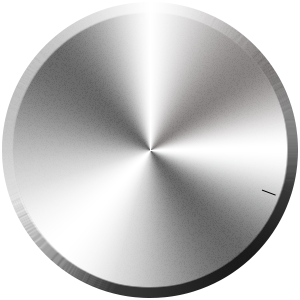
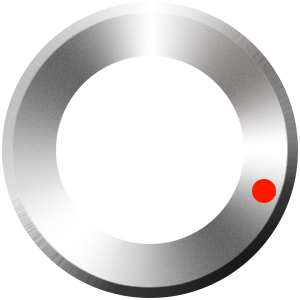
design1

Changed region(s): [[0.18, 0.18, 0.81, 0.84], [0.84, 0.6, 0.93, 0.69]]

diff --git a/lib/main.dart b/lib/main.dart
@@ -29,7 +29,7 @@ final Color _cPrimaryColor = Colors.grey;
 /// Theme accent color
 final Color _cAccentColor = Colors.blueGrey;
 /// Text color
-final Color _cTextColor = Colors.black;
+final Color _cTextColor = Colors.white;
 /// UI Controls color and opacity
 final Color _cCtrlColor = Colors.grey;
 final double _cCtrlOpacity = 0;
@@ -474,7 +474,7 @@ class _HomePageState extends State<HomePage> with SingleTickerProviderStateMixin
         ),
         ///widget Settings
         IconButton(
-          iconSize: 24,
+          iconSize: 18,
           icon: Icon(Icons.settings,),
           color: _textColor.withOpacity(_opacity),
           onPressed: () {
@@ -497,7 +497,7 @@ class _HomePageState extends State<HomePage> with SingleTickerProviderStateMixin
       // Can use instead: Icon(Icons.exposure_neg_1, semanticLabel: 'Reduce tempo by one', size: 36.0, color: Colors.white)
       child: Text(text,
         style: _textStyle,
-        textScaleFactor: 2.0,),
+        textScaleFactor: 1.2,),
       //padding: EdgeInsets.all(4),
       shape: CircleBorder(
         //borderRadius: new BorderRadius.circular(18.0),
@@ -565,7 +565,7 @@ class _HomePageState extends State<HomePage> with SingleTickerProviderStateMixin
           //   end: Alignment.bottomCenter,
           //      colors: [_primaryColor, _accentColor])
             image: DecorationImage(
-                image: AssetImage('images/Backg-Up-1.jpg'),
+                image: AssetImage('images/Backg-Dn-2.jpg'),
                 fit: BoxFit.cover
             )
         ),
@@ -597,7 +597,7 @@ class _HomePageState extends State<HomePage> with SingleTickerProviderStateMixin
           //Flexible(mainAxisAlignment: MainAxisAlignment.start, child:
           SlideTransition(
             position: _animationNeg,
-            child:
+           child:
             SizedBox(
             width: 0.5 * (width - 2 * _padding.dx),
             child: _buildMetre(_textStyle)
@@ -620,7 +620,7 @@ class _HomePageState extends State<HomePage> with SingleTickerProviderStateMixin
 */
           ///widget Subbeat widget
           //Flexible(child:
-      SlideTransition(
+     SlideTransition(
         position: _animationPos,
         child:
           SizedBox(
@@ -650,8 +650,8 @@ class _HomePageState extends State<HomePage> with SingleTickerProviderStateMixin
       min: minTempo.toDouble(),
       max: maxTempo.toDouble(),
       limit: _tempoBpmMax.toDouble(),
-      size: 0.36 * _widthSquare,
-      color: _textColor.withOpacity(0.5),
+        size: 0.32 * _widthSquare,
+      color: _textColor.withOpacity(0.6),
       textStyle: _textStyle,
       onPressed: _play,
       onChanged: (double value) {
@@ -673,17 +673,20 @@ class _HomePageState extends State<HomePage> with SingleTickerProviderStateMixin
       ///widget Tempo down (-1) button
       //tempoControls.add(_buildOneButton('-', -1));
       tempoControls.add(
-//        SizeTransition(
-//          axis: Axis.horizontal,
-//          axisAlignment: 1,
-//          sizeFactor: _animation,
-        SlideTransition(
-          position: _animationNeg,
-          child: Center(child:_buildOneButton('-', -1))
-        )
-      );
+
+          SlideTransition(
+              position: _animationNeg,
+              child: Center(child:_buildOneButton('-', -1))
+                    )
+
+          );
+
+
       ///widget Tempo knob control
       tempoControls.add(wixKnob);
+
+
+
       ///widget Tempo up (+1) button
       tempoControls.add(
         //PositionedTransition(
@@ -693,10 +696,11 @@ class _HomePageState extends State<HomePage> with SingleTickerProviderStateMixin
           //axisAlignment: -1,
 //          ScaleTransition(
 //          scale: _animation,
-          SlideTransition(
-            position: _animationPos,
-          child: Center(child:_buildOneButton('+', 1))
-        )
+
+                SlideTransition(
+                    position: _animationPos,
+                    child: Center(child:_buildOneButton('+', 1))
+                )
       );
       //tempoControls.add(_buildOneButton('+', 1));
     }
@@ -818,7 +822,7 @@ class _HomePageState extends State<HomePage> with SingleTickerProviderStateMixin
         /// Background
           decoration: BoxDecoration(
               image: DecorationImage(
-                  image: AssetImage('images/Backg-Up-1.jpg'),
+                  image: AssetImage('images/Backg-Dn-2.jpg'),
                   fit: BoxFit.cover
               )
         ),

diff --git a/lib/knob.dart b/lib/knob.dart
@@ -2,6 +2,7 @@
 
 import 'dart:math';
 import 'package:flutter/material.dart';
+import 'tempo_ui.dart';
 
 typedef OnPressedCallback = void Function();
 
@@ -116,7 +117,7 @@ class KnobState extends State<Knob>
                 angle: angle,
                 child: ClipOval(
                   child: Container(
-                    color: widget.color,
+    //                color: widget.color,
                     child: Image.asset('images/TempoKnob.png',
                       height: size,
                       fit: BoxFit.cover
@@ -128,12 +129,13 @@ class KnobState extends State<Knob>
               Column(
                 mainAxisAlignment: MainAxisAlignment.center,
                 children: [
-                  Icon(pressed ? Icons.pause : Icons.play_arrow,
-                    size: 0.5 * size,
-                    color: widget.color,
-                  ),
+  //                Icon(pressed ? Icons.pause : Icons.play_arrow,
+   //                 size: 0.53 * size,
+  //                  color: widget.color,
+   //               ),
                   Text(widget.value.toInt().toString(),
-                    style: widget.textStyle
+                    style: TextStyle(color: Colors.white ,
+                    fontSize:  26),
                   ),
                 ]
               )

diff --git a/lib/subbeat_ui.dart b/lib/subbeat_ui.dart
@@ -51,14 +51,14 @@ class SubbeatState extends State<SubbeatWidget>
       },
       child: Row(
         children: <Widget>[
-          Image.asset('images/owl2-3.png',
+          Image.asset('images/OWL=.png',
             height: 50,
             fit: BoxFit.contain
           ),
-          Padding(
-            padding: const EdgeInsets.symmetric(vertical: 0, horizontal: 4),
-            child: Text('=', style: widget.textStyle.copyWith(color: widget.color))
-          ),
+          //        Padding(
+//            padding: const EdgeInsets.symmetric(vertical: 0, horizontal: 4),
+//            child: Text('=', style: widget.textStyle.copyWith(color: widget.color))
+//          ),
           Padding(
             padding: const EdgeInsets.symmetric(vertical: 0, horizontal: 0),
             child: SizedBox(

diff --git a/lib/note_ui.dart b/lib/note_ui.dart
@@ -190,15 +190,15 @@ class NotePainter extends CustomPainter {
   ///
 
   ///Толщина линий вокруг активной ноты
-  final double _explosionLineWidth = 3;
+  final double _explosionLineWidth = 2;
 
   ///Число линий взрыва
-  final int _numberOfExplosionLines = 16;
+  final int _numberOfExplosionLines = 12;
 
   final Color colorExplosion = Colors.redAccent;
 
   ///Зазор линии взрыва от ноты
-  final double _startLineMultiplier = 1.4;
+  final double _startLineMultiplier = 1.2;
 
   ///[<---- ОБЛАСТЬ ДЕЙСТВИЯ ЮРИКА.   ]
 

diff --git a/lib/tempo_ui.dart b/lib/tempo_ui.dart
@@ -154,7 +154,8 @@ class TempoState extends State<TempoWidget>
         widget.onChanged(tempoList[_index].tempo);
       },
       child: Text(txt,
-        style: widget.textStyle
+        style: TextStyle(color: Colors.white ,
+            fontSize:  12),
       )
     );
   }
